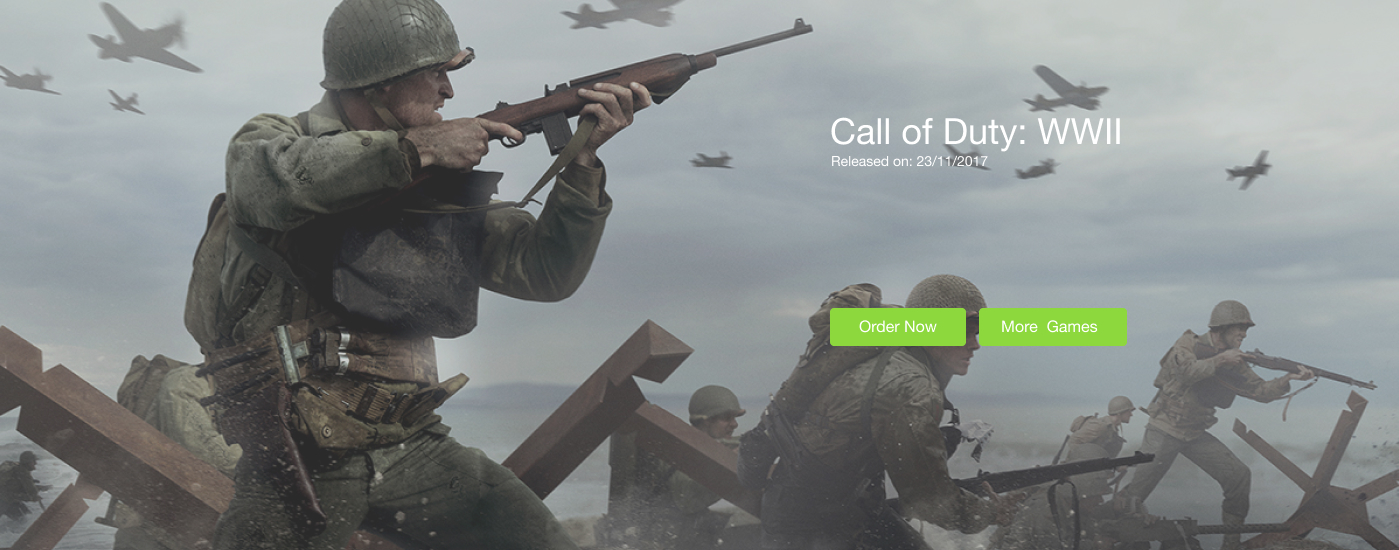
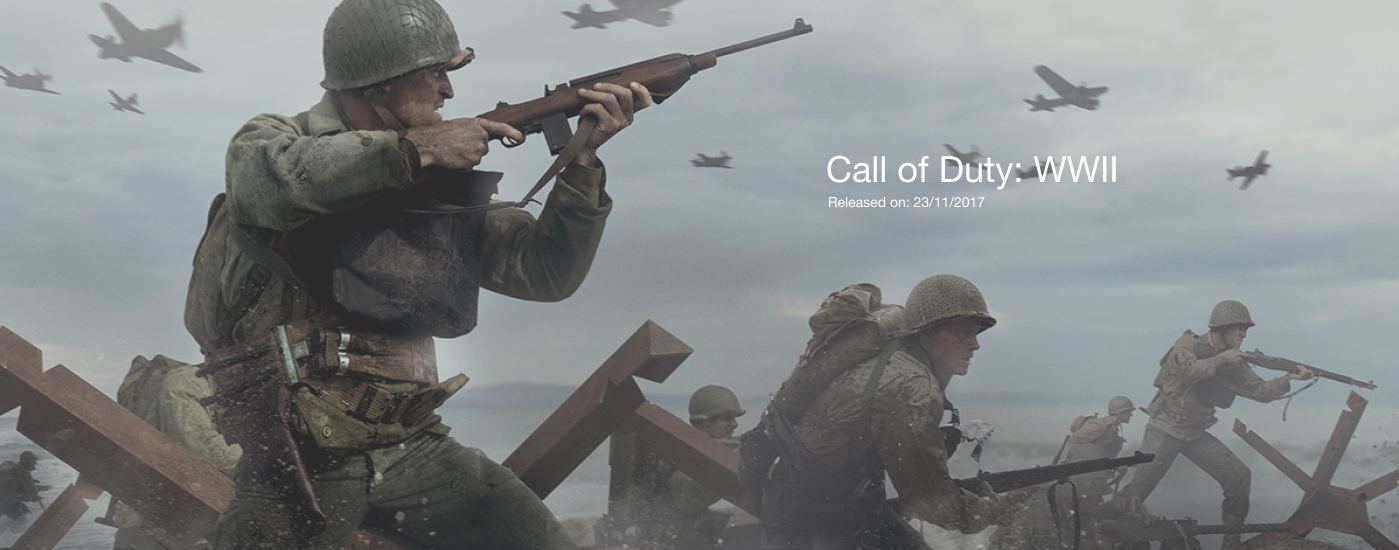
test

Changed region(s): [[0.584, 0.2164, 0.7991, 0.3709], [0.584, 0.5564, 0.8299, 0.6491]]

diff --git a/index.html b/index.html
@@ -78,31 +78,39 @@
                 <div class="Star_wars">
                     <div class="star_text">
                         <div class="block_on">
-                            <h2>Star Wars</h2>
-                            <span>Battlefront II</span>
+
+                            <div class="botton_star">
+
+                                <a class="star_btn" href="#">Watch Trailer</a>
+                            </div>
+                            <div class="flex_block">
+                                <a class="btn_star" href="#">Explore Games</a>
+                            </div>
+
+
+
                         </div>
 
+                        <!-- <div class="star_flex">
+                            <div class="strelca_star"><p></p>
+                            </div>
+                            <div class="strelca_star_one">
+                                <p></p>
+                            </div>
+                        </div> -->
 
-                        <div class="botton_star">
-                            <a class="btn_star" href="#">Watch Trailer</a>
-                            <a class="star_btn" href="#">Explore Games</a>
-
-                        </div>
+                        <img class="shown" src="./images/bacgraunds/Carousel1.jpg" alt="photo_img">
                     </div>
-                    <div class="star_flex">
-                        <div class="strelca_star">
-                            <p>&#x3C;</p>
-                        </div>
-                        <div class="strelca_star_one">
-                            <p>&#x3E;</p>
-                        </div>
+                    <div class="call_of">
+                        <img src="./images/bacgraunds/Carousel2.jpg" alt="photo_img">
                     </div>
-                    <img class="shown" src="./images/bacgraunds/Star-Wars-Battlefront-II-combat.png" alt="photo_img">
+                    
+
                 </div>
-                <div class="call_of">
-                    <img src="./images/bacgraunds/Carousel.png" alt="photo_img">
-                </div>
-                <img src="./images/img/images.jpg" alt="photo_img">
+
+               
+
+
 
             </div>
             <div class="tabs">
@@ -110,8 +118,6 @@
                 <input class="next" type="button" value="">
 
             </div>
-
-
         </div>
         <!-- <div class="header_slider">
             <div class="fade">

diff --git a/style/style.scss b/style/style.scss
@@ -2,6 +2,7 @@
 $fontFamily: 'Hammersmith One', sans-serif ;
 $colortext: #FFFFFF;
 $colorSlide: #8DD83D ;
+$colorBtn: #686C6F;
 
 
 *, body, html{ 
@@ -138,16 +139,77 @@ $colorSlide: #8DD83D ;
 //     right: 0;
 //   }
 //   end slider 
-.tabs {
+
+
+
+.block_on{
+    position: absolute;
+    display: flex;
+    left: 60%;
+    z-index: 11;
+    top: 53%;
+
+
+}
+
+.botton_star{
+    position: relative;
+    margin-right: 25px;
     text-align: center;
+    padding: 10px 25px;
+    border-radius: 6%;
+    background: $colorBtn;
     
-    padding-top: 20px;
+  
+    .star_btn{
+
+        font-family: $fontFamily;
+        font-size: 16px;
+        color: #FFFFFF;
+    }
+    &:hover{
+        background: $colorSlide;
+    }
+
+
+}
+.flex_block{
+    position: relative;
+    margin-left: 5px;
+    text-align: center;
+    padding: 10px 25px;
+    border-radius: 6%;
+    background: $colorBtn;
+    
+
+    .btn_star{
+        text-align: center;
+        
+    
+        font-family: $fontFamily;
+        font-size: 16px;
+        color: #FFFFFF;
+    }
+    &:hover{
+        background: $colorSlide;
+    }
+
+}
+
+
+.tabs {
+    position: relative;
+    
+    text-align: center;
+    padding-top: 60px;
+   
     input{
         width: 15px;
         height: 15px;
         border: 1px solid $colorSlide;
         border-radius: 50px;
         background: $colortext;
+        
         cursor: pointer;
         
         &:hover{
@@ -159,69 +221,6 @@ $colorSlide: #8DD83D ;
     
     
 }
-.Star_wars{
-    position: relative;
-    z-index: 1;
-   
-
-
-}
-.star_text{
-    display: flex;
-    position: relative;
-    flex-direction: column;
-    flex-wrap: wrap;
-    align-items: flex-start;
-    left: 60%;
-    top: 300%;
-    z-index: 11;
-
-    
-   
-
-}
-
-.block_on{
-    
-    h2{
-        
-        position: relative;
-        z-index: 11;
-        color: #FFFFFF;
-
-    }
-    span{
-        position: relative;
-        z-index: 11;
-        color: #FFFFFF;
-
-    }
-}
-
-.botton_star{
-    margin-top: 45px;
-    
-    .btn_star{
-        position: relative;
-        z-index: 11;
-        color: #FFFFFF;
-
-    }
-    .star_btn{
-        position: relative;
-        z-index: 11;
-        color: #FFFFFF;
-    }
-}
-.call_of{
-    position: ;
-
-
-
-    
-
-}
-
 
 
 

diff --git a/style/style.css b/style/style.css
@@ -91,9 +91,59 @@ li a {
   font-size: 20px;
 }
 
-.tabs {
+.block_on {
+  position: absolute;
+  display: -webkit-box;
+  display: -ms-flexbox;
+  display: flex;
+  left: 60%;
+  z-index: 11;
+  top: 53%;
+}
+
+.botton_star {
+  position: relative;
+  margin-right: 25px;
   text-align: center;
-  padding-top: 20px;
+  padding: 10px 25px;
+  border-radius: 6%;
+  background: #686C6F;
+}
+
+.botton_star .star_btn {
+  font-family: "Hammersmith One", sans-serif;
+  font-size: 16px;
+  color: #FFFFFF;
+}
+
+.botton_star:hover {
+  background: #8DD83D;
+}
+
+.flex_block {
+  position: relative;
+  margin-left: 5px;
+  text-align: center;
+  padding: 10px 25px;
+  border-radius: 6%;
+  background: #686C6F;
+}
+
+.flex_block .btn_star {
+  text-align: center;
+  font-family: "Hammersmith One", sans-serif;
+  font-size: 16px;
+  color: #FFFFFF;
+}
+
+.flex_block:hover {
+  background: #8DD83D;
+}
+
+.tabs {
+  position: relative;
+  text-align: center;
+  padding-top: 60px;
 }
 
 .tabs input {
@@ -107,61 +157,5 @@ li a {
 
 .tabs input:hover {
   background: #8DD83D;
-}
-
-.Star_wars {
-  position: relative;
-  z-index: 1;
-}
-
-.star_text {
-  display: -webkit-box;
-  display: -ms-flexbox;
-  display: flex;
-  position: relative;
-  -webkit-box-orient: vertical;
-  -webkit-box-direction: normal;
-      -ms-flex-direction: column;
-          flex-direction: column;
-  -ms-flex-wrap: wrap;
-      flex-wrap: wrap;
-  -webkit-box-align: start;
-      -ms-flex-align: start;
-          align-items: flex-start;
-  left: 60%;
-  top: 300%;
-  z-index: 11;
-}
-
-.block_on h2 {
-  position: relative;
-  z-index: 11;
-  color: #FFFFFF;
-}
-
-.block_on span {
-  position: relative;
-  z-index: 11;
-  color: #FFFFFF;
-}
-
-.botton_star {
-  margin-top: 45px;
-}
-
-.botton_star .btn_star {
-  position: relative;
-  z-index: 11;
-  color: #FFFFFF;
-}
-
-.botton_star .star_btn {
-  position: relative;
-  z-index: 11;
-  color: #FFFFFF;
-}
-
-.call_of {
-  position: absolute;
 }
 /*# sourceMappingURL=style.css.map */

diff --git a/style/slick.css b/style/slick.css
@@ -133,7 +133,7 @@
 
 }
 .photo img {
-    height: 750px;
+    height: 800px;
     width: 100%;
     position: absolute;
     opacity: 0;
